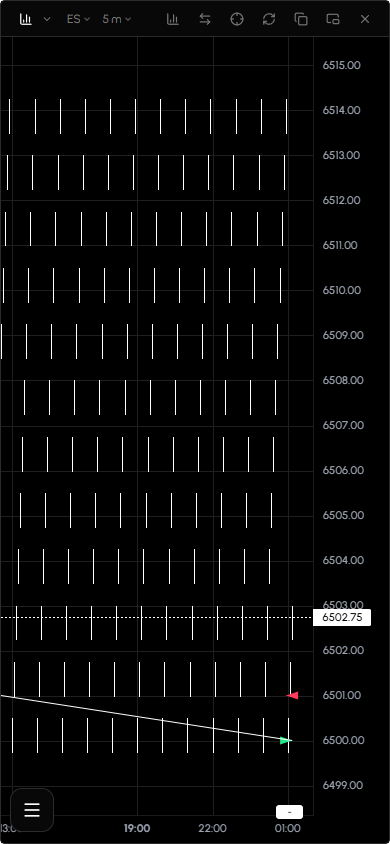
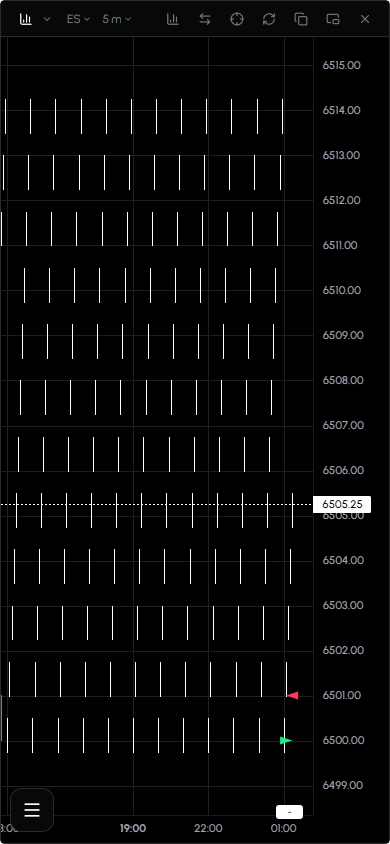
Resume account sync immediately after mobile reconnect

diff --git a/src/hooks/useAccountPreferenceSync.ts b/src/hooks/useAccountPreferenceSync.ts
@@ -77,7 +77,13 @@ export function useAccountPreferenceSync({ supabase, userId, enabled }: {
       }
       schedule(true);
     };
-    const reconnect = () => { retryAfter = 0; schedule(); };
+    const reconnect = () => {
+      retryAfter = 0;
+      // A foreground/online return must replace a pending offline backoff,
+      // while ordinary live events retain their original bounded deadline.
+      if (timer !== undefined) { window.clearTimeout(timer); timer = undefined; }
+      schedule();
+    };
     const onVisible = () => { if (document.visibilityState === 'visible') reconnect(); };
     const onHidden = () => { if (document.visibilityState === 'hidden') void synchronize(); };
     channel.on('broadcast', { event: 'changed' }, () => schedule())

diff --git a/docs/audits/2026-11-04-device-sync/README.md b/docs/audits/2026-11-04-device-sync/README.md
@@ -13,16 +13,15 @@ The existing authenticated per-owner CAS storage, merge rules, drawing clear bar
 
 ## Verification
 
-- 30 focused controller, account merge, request deadline, frame isolation, storage notification and replay-drawing tests pass.
+- 31 focused controller, account merge, request deadline, frame isolation, storage notification and replay-drawing tests pass.
 - Additional drawing-race suite: 6/7 pass. The remaining pre-existing source-extraction harness fails because Chart's `onUpdate` references `updateSvgDrawing`, which the harness does not declare. Chart.tsx is unchanged in this task. This is not reported as a passing suite.
 - Scoped ESLint passes; TypeScript check passes. Full Next.js production build passes.
 - `scripts/audits/device-sync-browser.cjs` runs the actual React Workspace, chart, account hydration, sync controller, storage writer, drawing store and paper engine in two independent Chromium contexts. Desktop is 1440x980; phone is 390x844 with touch/mobile behavior. Only authenticated database CAS and realtime hints are replaced by isolated HTTP/SSE transport; external requests are blocked.
 - Eight browser checks pass with zero page errors: automatic layout upload; fresh-phone two-pane restore with one full-width visible chart; desktop drawing transfer; reverse phone edit; demo account/open position transfer; phone stop edit retained on laptop; desktop close transferred to phone; no save starvation during 40 ms event bursts.
-- Captured fixture latency: drawing 755 ms, reverse preference edit 689 ms, account/open trade 984 ms. These are local integration measurements, not guaranteed production network latency. See result.json and phone.png.
+- Captured fixture latency: drawing 740 ms, reverse preference edit 669 ms, account/open trade 800 ms. These are local integration measurements, not guaranteed production network latency. See result.json and phone.png.
 
 ## Scope and limits
 
 No VPS/feed/terminal restart, subscription reset, production test trade, account deletion or live trading-tab refresh. This is account-state synchronization, not pixel streaming: both devices render their own charts using shared account settings. Suspended/offline phones cannot receive updates continuously; existing focus/online recovery catches up when active. Physical-phone and real Supabase multi-device delivery were not impersonated as tested; existing production RLS/realtime availability and device connectivity still apply.
 
 Release: one scoped main push through the existing production Git integration; verify the exact production commit after deployment.
-
